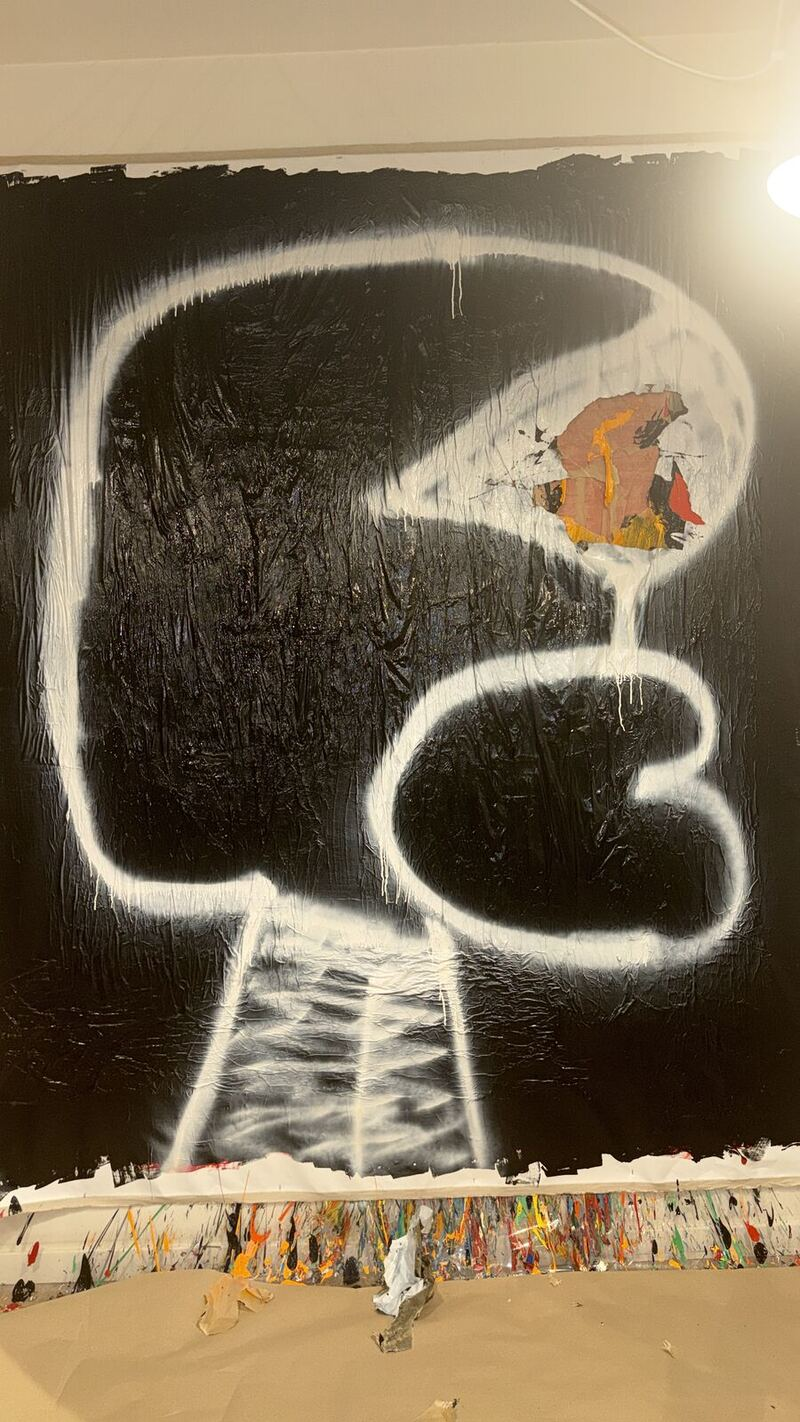
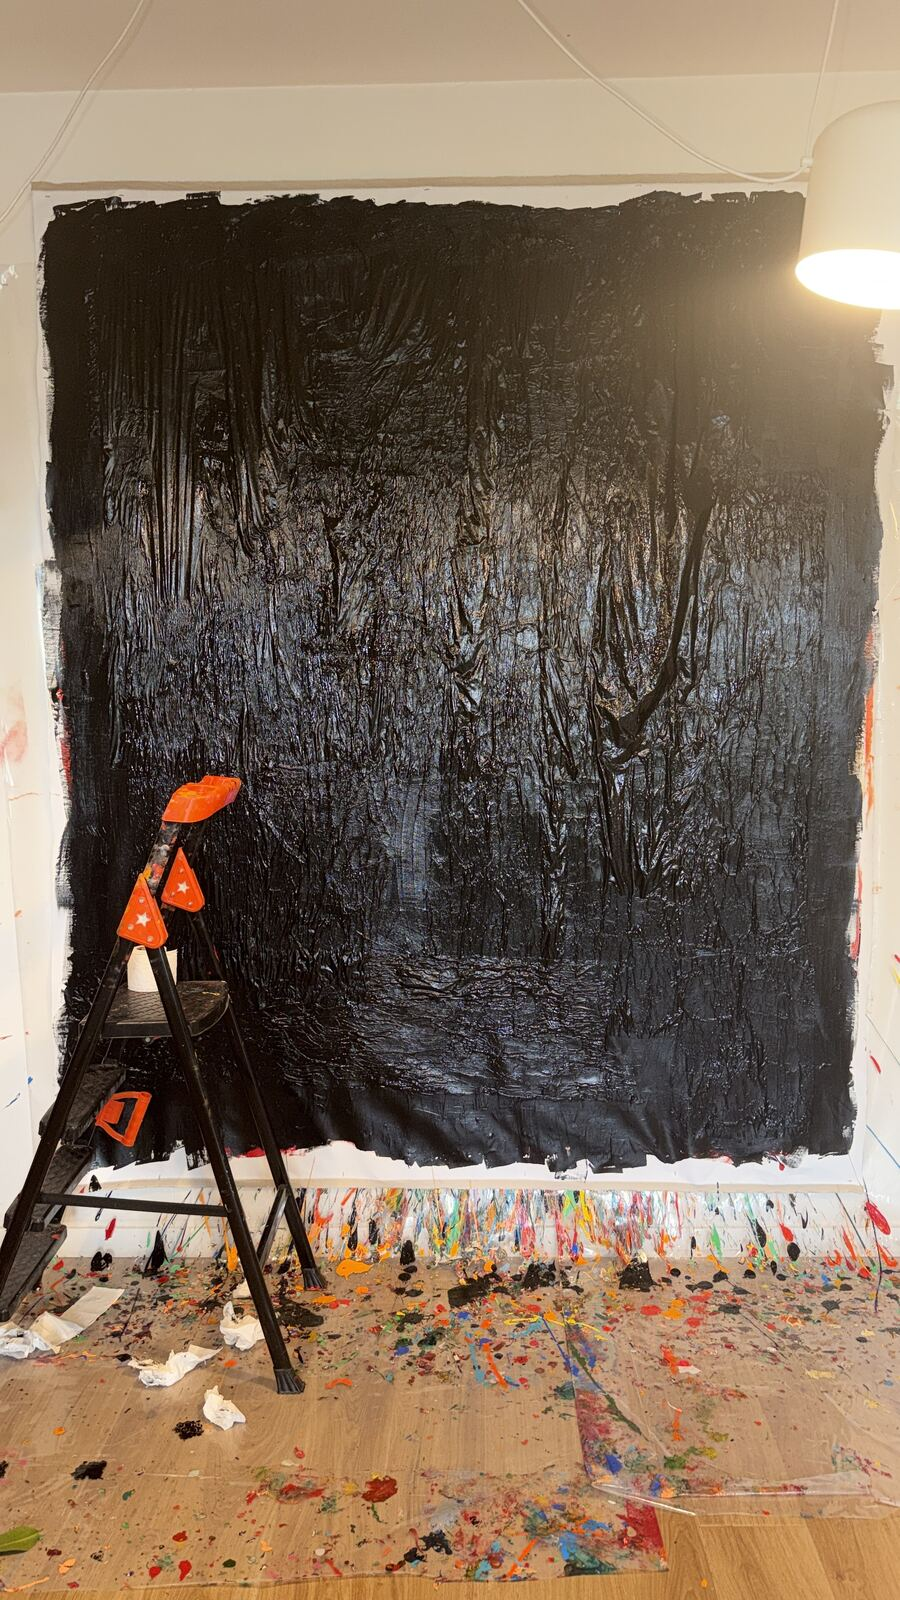
MM58: four-step process incl. red ground with parchment paper; process photos open in the zoom viewer; process description (draft, awaiting Paul's OK)
Claude-Session: https://claude.ai/code/session_01FYrPgsF63UgjyRSbfZ3Y21

diff --git a/index.html b/index.html
@@ -48,20 +48,25 @@
     <figure class="work" id="no-58">
         <div class="work__plate">
           <a class="work__open" href="images/1600/mm-58.jpg" data-caption="Mind Mechanics No. 58 (Assemblage I)"><img src="images/1200/mm-58.jpg" srcset="images/800/mm-58.jpg 800w, images/1200/mm-58.jpg 1200w, images/1600/mm-58.jpg 1600w" sizes="(max-width: 760px) 92vw, 68vw" alt="Mind Mechanics No. 58 (Assemblage I)" width="1399" height="1670" decoding="async" fetchpriority="high"></a>
-          <div class="process">
+          <div class="process n4">
             <div class="process__step">
-              <img src="images/800/mm-58-process-1.jpg" alt="Mind Mechanics No. 58 (Assemblage I), black acrylic ground before the first mark" width="900" height="1600" loading="lazy" decoding="async">
-              <span>i · Ground</span>
+              <a class="work__open process__open" href="images/1600/mm-58-process-1.jpg" data-caption="Mind Mechanics No. 58 (Assemblage I), i · Red ground, parchment paper"><img src="images/800/mm-58-process-1.jpg" alt="Mind Mechanics No. 58 (Assemblage I), the earlier red painting with parchment paper laid over it" width="900" height="1200" loading="lazy" decoding="async"></a>
+              <span>i · Red ground, parchment paper</span>
             </div>
             <div class="process__step">
-              <img src="images/800/mm-58-process-2.jpg" alt="Mind Mechanics No. 58 (Assemblage I), profile laid in with a grafted fragment" width="900" height="1600" loading="lazy" decoding="async">
-              <span>ii · Structure and graft</span>
+              <a class="work__open process__open" href="images/1600/mm-58-process-2.jpg" data-caption="Mind Mechanics No. 58 (Assemblage I), ii · Overpainted black"><img src="images/800/mm-58-process-2.jpg" alt="Mind Mechanics No. 58 (Assemblage I), the same canvas painted out in black" width="900" height="1600" loading="lazy" decoding="async"></a>
+              <span>ii · Overpainted black</span>
             </div>
             <div class="process__step">
-              <img src="images/800/mm-58-process-3.jpg" alt="Mind Mechanics No. 58 (Assemblage I), detail of the grafted fragment" width="900" height="1600" loading="lazy" decoding="async">
-              <span>iii · Detail</span>
+              <a class="work__open process__open" href="images/1600/mm-58-process-3.jpg" data-caption="Mind Mechanics No. 58 (Assemblage I), iii · Structure, fragment left open"><img src="images/800/mm-58-process-3.jpg" alt="Mind Mechanics No. 58 (Assemblage I), white profile sprayed over the black, an opening left on the earlier layer" width="900" height="1600" loading="lazy" decoding="async"></a>
+              <span>iii · Structure, fragment left open</span>
+            </div>
+            <div class="process__step">
+              <a class="work__open process__open" href="images/1600/mm-58-process-4.jpg" data-caption="Mind Mechanics No. 58 (Assemblage I), iv · Detail"><img src="images/800/mm-58-process-4.jpg" alt="Mind Mechanics No. 58 (Assemblage I), detail of the earlier red and paper layer showing through" width="900" height="1600" loading="lazy" decoding="async"></a>
+              <span>iv · Detail</span>
             </div>
           </div>
+          <p class="process__text">No. 58 began as a different painting: a red ground covered with parchment paper and worked over in yellow. That surface was painted out completely in black. The profile was then laid in with white spray paint, and inside the head an opening was left on the buried layer. The earlier painting survives only as this fragment, visible through the new one. Since No. 56 this is the method of the series: earlier works become the material of later ones.</p>
         </div>
         <figcaption class="work__meta">
           <span class="work__num">No. 58</span>
@@ -69,7 +74,7 @@
           <span class="work__dim">2026</span>
           <span class="work__dim">Oil stick, spray paint and parchment paper assemblage on acrylic ground on canvas</span>
           <span class="work__dim">200 × 240 cm</span>
-          <span class="work__note">In progress, from ground to finished work</span>
+          <span class="work__note">Shown with its process: from an earlier painting to the finished work</span>
         </figcaption>
       </figure>
     <figure class="work" id="no-50">

diff --git a/style.css b/style.css
@@ -94,11 +94,18 @@ a{color:inherit;text-decoration:none}
   display:grid;grid-template-columns:repeat(3,minmax(0,1fr));
   gap:clamp(8px,1.4vw,16px);margin-top:clamp(12px,1.8vw,20px);
 }
+.process.n4{grid-template-columns:repeat(4,minmax(0,1fr))}
+.process__step a{display:block;cursor:zoom-in}
 .process__step img{aspect-ratio:9/14;object-fit:cover}
 .process__step span{
   display:block;margin-top:8px;font-size:10px;letter-spacing:.15em;
-  text-transform:uppercase;color:var(--dim);
+  text-transform:uppercase;color:var(--dim);line-height:1.6;
 }
+.process__text{
+  font-family:var(--serif);font-size:clamp(15px,1.5vw,17px);line-height:1.6;color:#33312C;
+  max-width:60ch;margin-top:clamp(18px,2.4vw,28px);
+}
+@media (max-width:760px){.process.n4{grid-template-columns:repeat(2,minmax(0,1fr))}}
 
 /* ---------- prose pages ---------- */
 .sheet{max-width:62ch;padding:clamp(44px,8vw,104px) var(--pad) clamp(64px,10vw,140px)}

diff --git a/scripts/build.py b/scripts/build.py
@@ -47,14 +47,19 @@ def figure(work, first):
     plate = (f'<a class="work__open" href="images/1600/{name}" data-caption="{escape(t)}">'
              f'{picture(name, t, first)}</a>')
     if work.get("process"):
-        steps = "".join(
-            f'\n            <div class="process__step">'
-            f'\n              <img src="images/800/{p["img"]}" alt="{escape(t + ", " + p["alt"])}" '
-            f'width="900" height="1600" loading="lazy" decoding="async">'
-            f'\n              <span>{escape(p["label"])}</span>'
-            f'\n            </div>'
-            for p in work["process"])
-        plate += f'\n          <div class="process">{steps}\n          </div>'
+        steps = ""
+        for p in work["process"]:
+            pw, ph = jpeg_size(ROOT / "images" / "800" / p["img"])
+            cap = f'{t}, {p["label"]}'
+            steps += (f'\n            <div class="process__step">'
+                      f'\n              <a class="work__open process__open" href="images/1600/{p["img"]}" data-caption="{escape(cap)}">'
+                      f'<img src="images/800/{p["img"]}" alt="{escape(t + ", " + p["alt"])}" '
+                      f'width="{pw}" height="{ph}" loading="lazy" decoding="async"></a>'
+                      f'\n              <span>{escape(p["label"])}</span>'
+                      f'\n            </div>')
+        plate += f'\n          <div class="process n{len(work["process"])}">{steps}\n          </div>'
+        if work.get("process_text"):
+            plate += f'\n          <p class="process__text">{escape(work["process_text"])}</p>'
     meta = [f'<span class="work__num">No. {work["no"]}</span>',
             f'<span class="work__title">{escape(t)}</span>']
     meta += [f'<span class="work__dim">{escape(v)}</span>'
